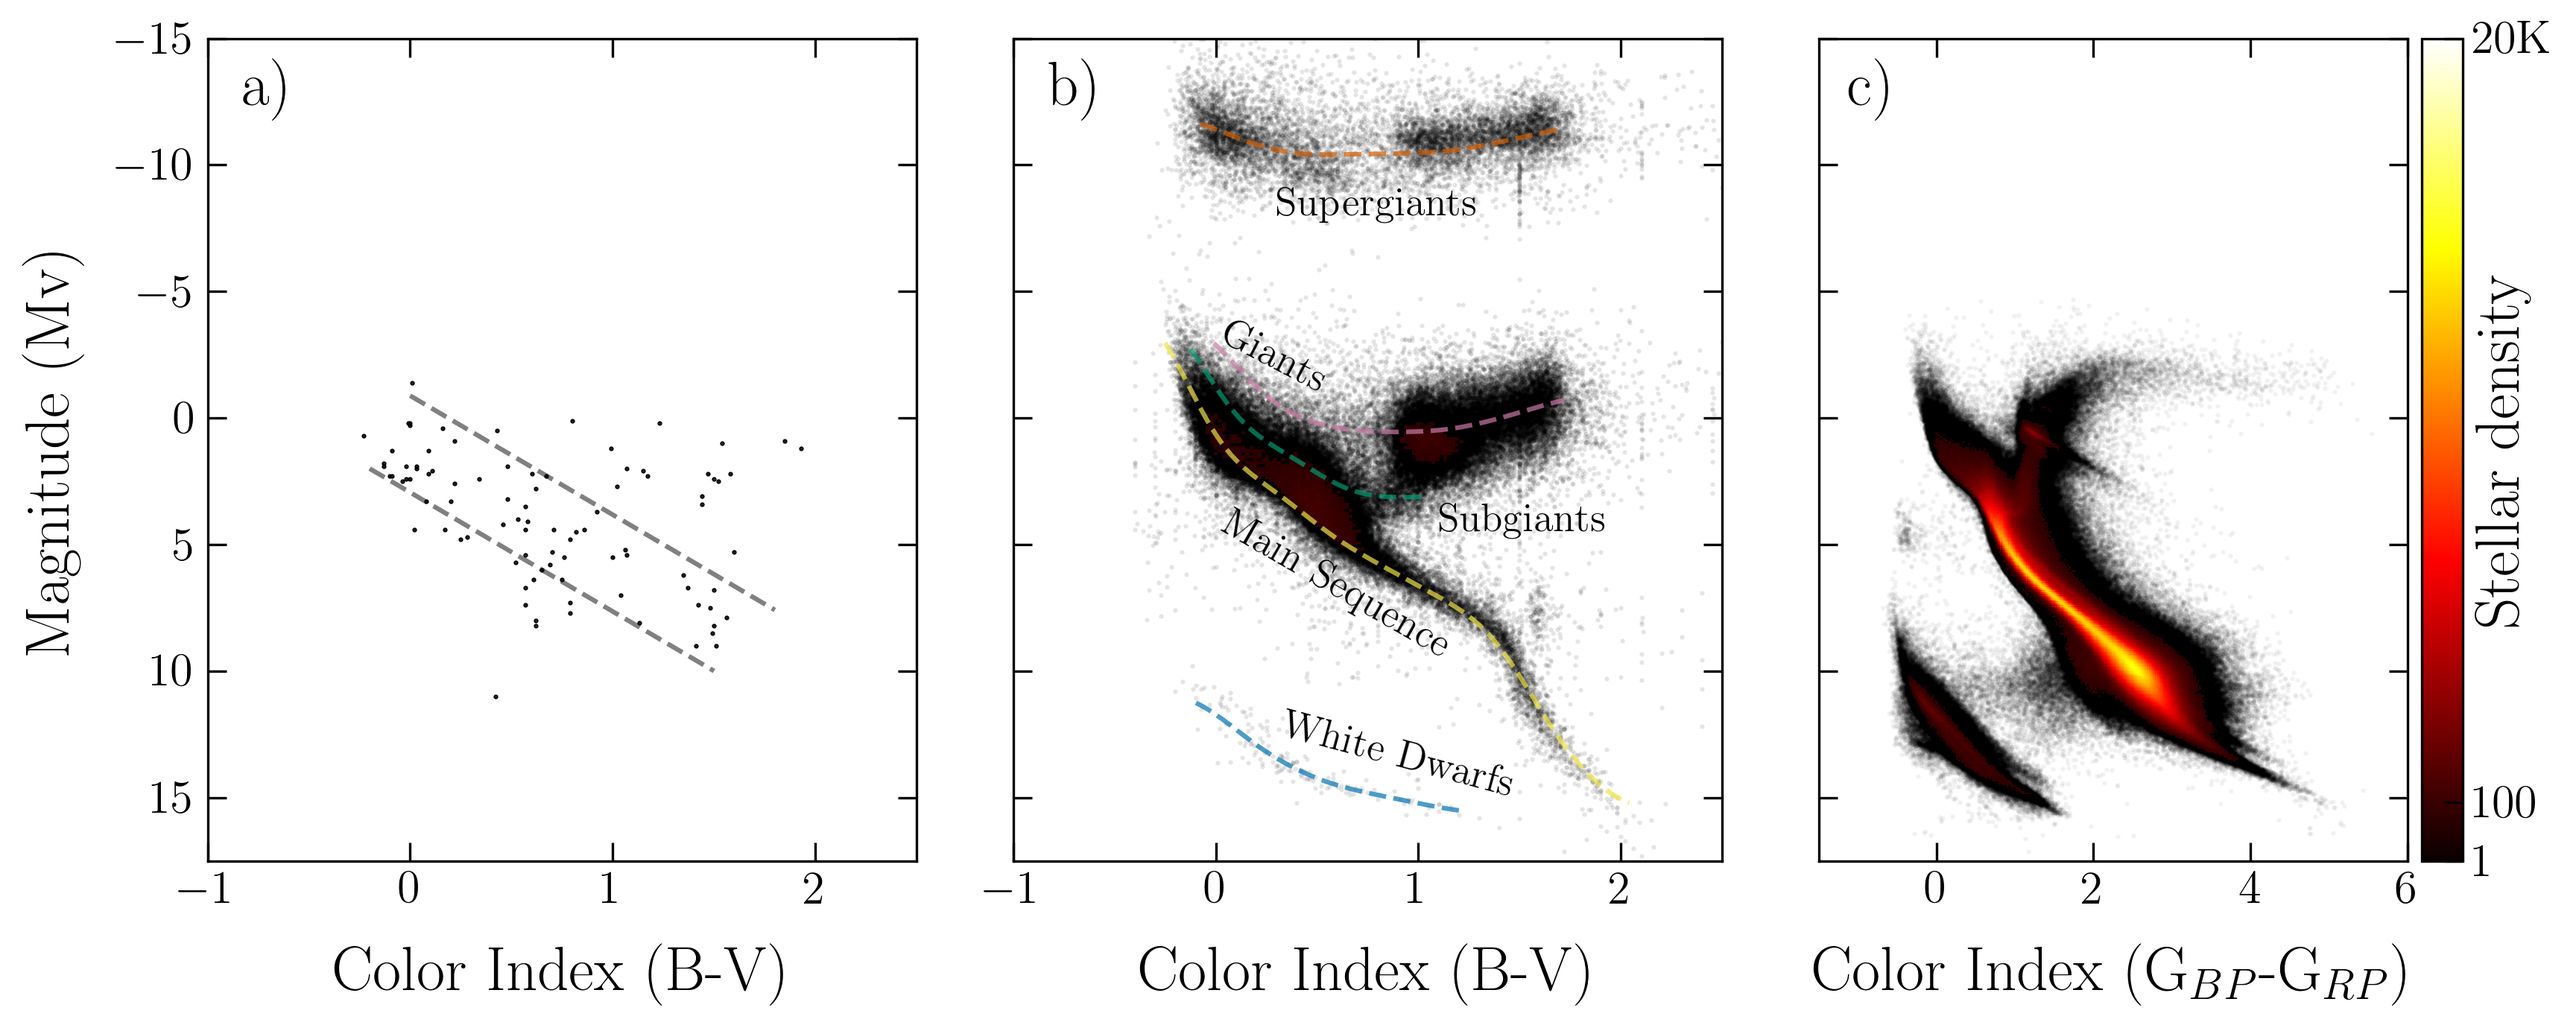
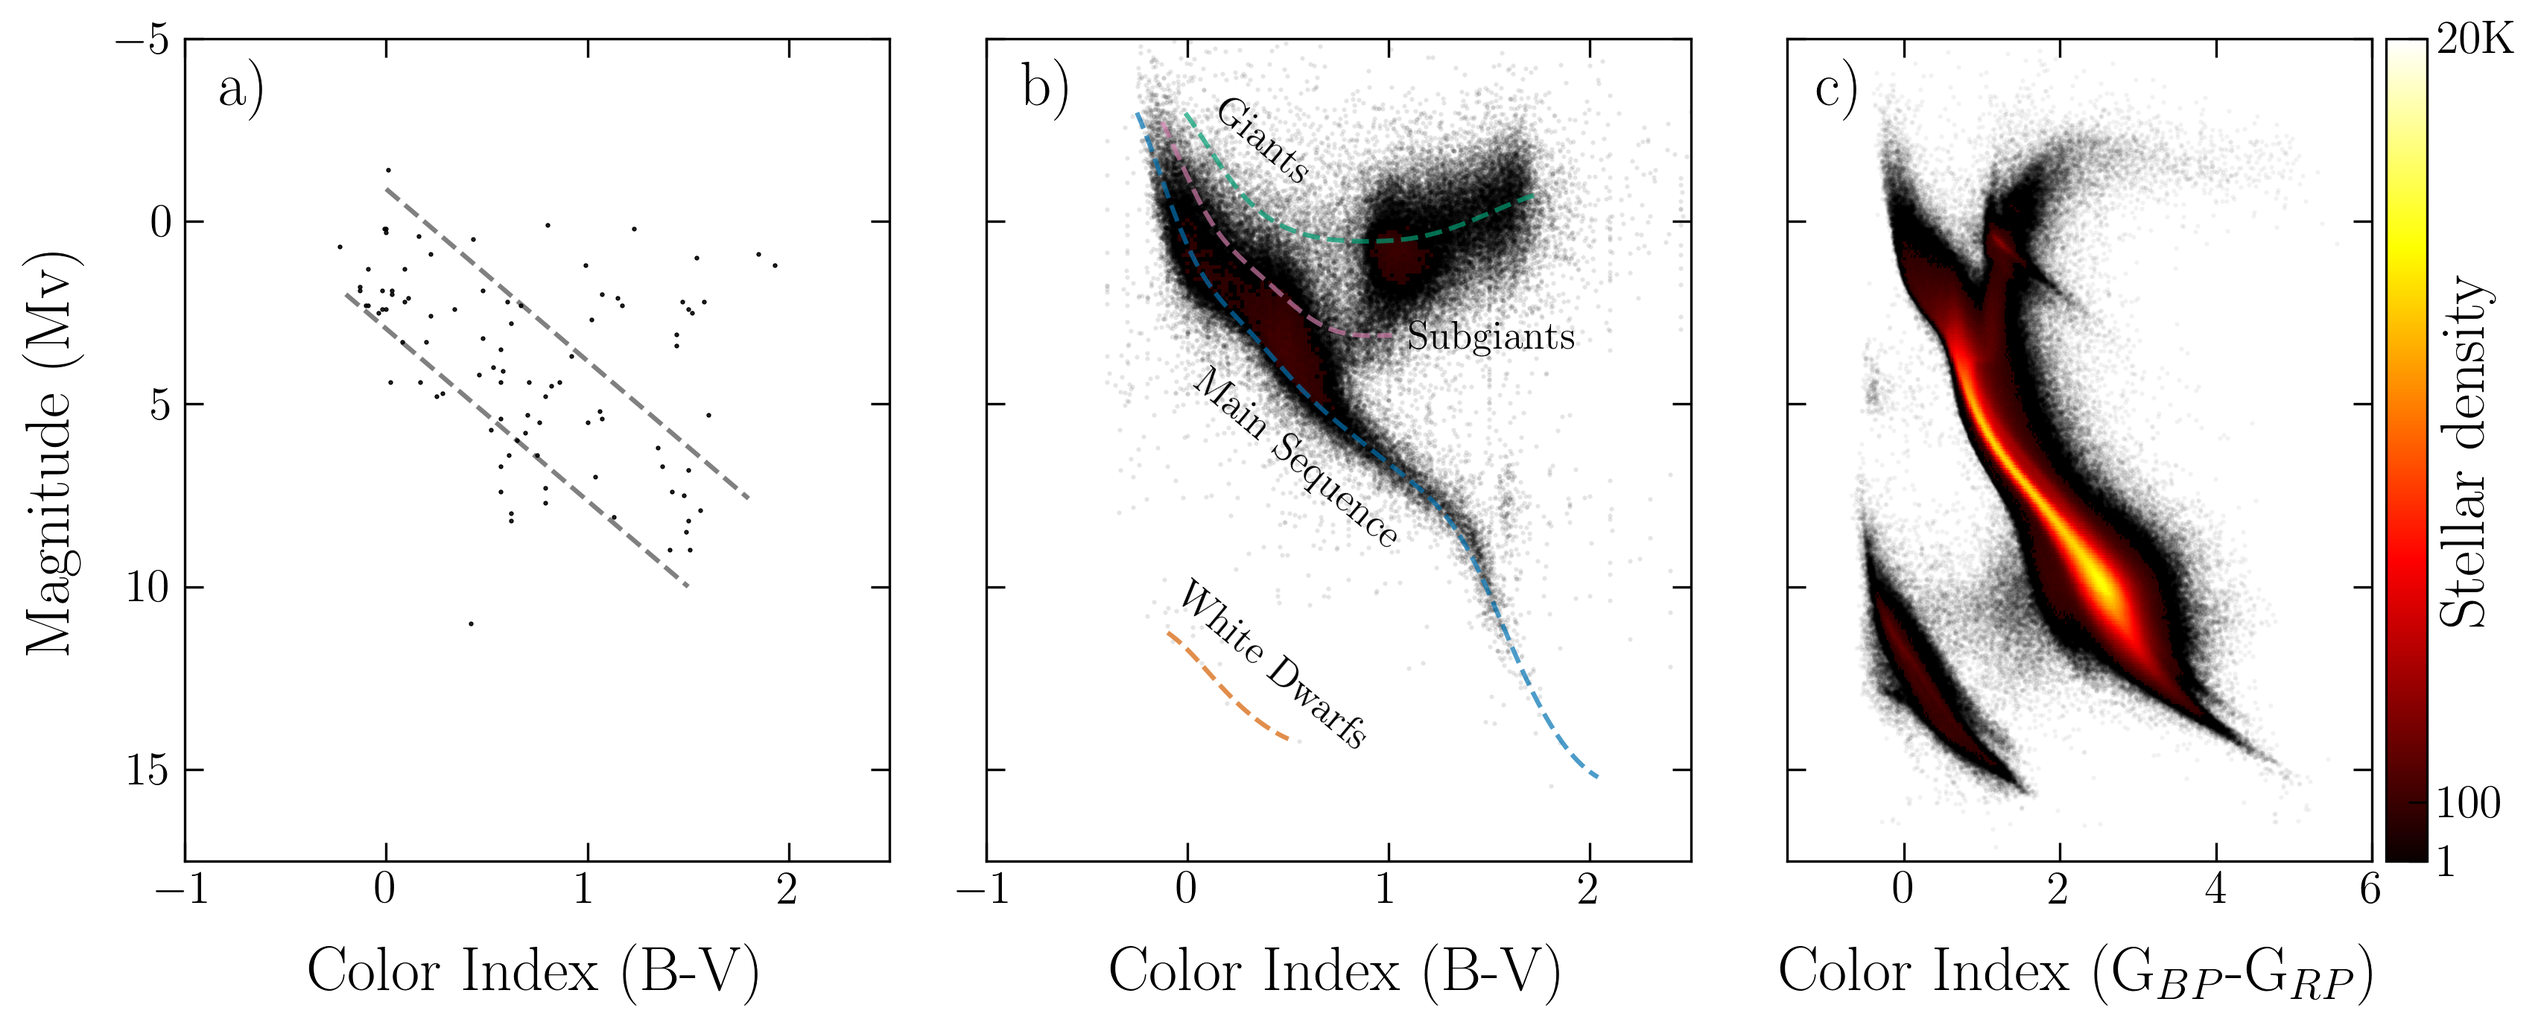
update lims

diff --git a/src/make_HR_plot.py b/src/make_HR_plot.py
@@ -1,4 +1,6 @@
 # -*- coding: utf-8 -*-
+# %load_ext jupyternotify
+
 # +
 import pandas as pd
 import matplotlib.pyplot as plt
@@ -43,6 +45,28 @@ def add_1914_annotations(ax):
     y2 = m1 * x2 + c1[0] * -0.3
     ax.plot(x1,y1, ls='dashed', color='gray', zorder=-100)
     ax.plot(x2,y2, ls='dashed', color='gray', zorder=-100)
+
+    
+def add_hip_annotations(ax):
+    df = pd.read_csv("data/hyg_hr_theory_data.csv")
+    groups = list(set([i.split("_")[0] for i in df.columns.values]))
+    for i, g in enumerate(groups[::-1]):
+        x, y = df[f"{g}_X"], df[f"{g}_Y"]
+        if 'dwarfs' in g:
+            l = 20
+            x, y = x[0:l], y[0:l]
+        f = interp1d(x, y)
+
+        xnew = np.arange(min(x), max(x), 0.01)
+        ynew = gaussian_filter1d(f(xnew), 15, mode="nearest")
+        ax.plot(xnew, ynew, alpha=0.7, ls='dashed', c=f"C{i}")
+    fs = 13
+    ax.annotate("Giants", xy=(0.1, -1), xycoords="data", fontsize=fs,rotation=-40.)
+    ax.annotate("Subgiants", xy=(1.1,3.5), xycoords="data", fontsize=fs, )
+    ax.annotate("Main Sequence", xy=(0, 9.), xycoords="data", fontsize=fs, rotation=-40)
+    ax.annotate("White Dwarfs", xy=(-0.1, 14.5), xycoords="data", fontsize=fs, rotation=-40)
+
+
 
 
 
@@ -92,88 +116,28 @@ def load_1914_data():
     
 
 def load_hyg_data():
-    data = pd.read_csv("https://raw.githubusercontent.com/astronexus/HYG-Database/master/hygdata_v3.csv")
+    try:
+        data = pd.read_csv("data/hyg_data.csv")
+    except Exception:
+        data = pd.read_csv("https://raw.githubusercontent.com/astronexus/HYG-Database/master/hygdata_v3.csv")
     data['B-V'] = data['ci']
     data['temp'] = bv_to_temp(data['B-V'])
     data['mg'] = data['absmag']
     data = data[['mg','temp', 'ci']]
     data = data.dropna()
     return data
-
-
-
     
 def load_hip_data():
-    """
-    To download the catalog you must access the VizieR Search Page 
-    http://vizier.u-strasbg.fr/viz-bin/VizieR-3?-source=I/239/hip_main
-    for the catalog I/239 from the Strasbourg astronomical Data Center (CDS).
-    Select only the fields listed above: HIP, Vmag, Plx, BV, SpType. 
-    In the left pane, under "Preferences" select "unlimited" and "; -Separated Values" 
-    Press the "Submit" button and download the file, which I called I_239_selection.tsv 
-    and occupies only 3.8 MB. Opening it with a text editor is found that it is a text file 
-    with a header of a few lines explanatory of the contents, followed by 118322 entries with 
-    the five selected fields separated by the ; character. At the end of the file there is 
-    also a blank line we should skip when reading the file.
-    
-    
-    """
-    HIP = "data/hip.tsv"
-    df = pd.read_table(HIP, skiprows=44, sep='|', header=None, index_col=0,
-                   names = ['HIP', 'Vmag', 'Plx', 'B-V', 'SpType'],
-                   skipfooter=1, engine='python')
-    
-    df = df.applymap(lambda x: np.nan if isinstance(x, str)
-                           and x.isspace() else x).dropna()
-
-    df['Vmag'] = df['Vmag'].astype(np.float64)
-    df['Plx'] = df['Plx'].astype(np.float64)
-    df['B-V'] = df['B-V'].astype(np.float64)
-    
-    # removing nans in parallaxes and B-V
-    df = df[ df['Plx'].notna()]
-    df = df[df["B-V"].notna()]
-    
-    #Making sure parallaxes are positive and not too close to zero
-    df = df[df.Plx > 0.1] 
-    df["d_kpc"] = 1/df["Plx"]
-    #     df["d_kpc"].describe()
-    
-
-    #creating a copy of the SpTypes without changes to the Spectral Types for later use 
-    df['Og_SpType'] = df['SpType']
-
-    #the first 2 identifiers are the most important information in the Spectral types, so we drop all other letters in the column
-    df['SpType'] = df['SpType'].str[:2]
-
-    #we also remove spectral types that are < 2 characters, we need a type and a number 
-    mask = (df['SpType'].str.len() > 1)
-    df = df.loc[mask]
-
-    #we remove spectral types where the second character is not useable, ex: b:, h', mm
-    mask = df['SpType'].str[1].str.isdigit()
-    df = df.loc[mask]
-
-    #we are only looking at the most common spectral types, O, B A, F, G, K, M, so any other spectral types will be removed 
-    df = df[df['SpType'].map(lambda s: s[0] in 'OBAFGKM')]
-
-    #the x axis of the HR-diagram will be the spectral type, so we quantify this by assigning a number to each spectral type
-    sequence = {'O':'0', 'B':'1', 'A':'2', 'F':'3', 'G':'4', 'K':'5', 'M':'6'}
-    df['SpType'] = df['SpType'].apply(lambda s: sequence[s[0]]+s[1])
-
-    #convert string to float
-    df['SpType'].apply(lambda s: float(s))
-    
-    
-    # Add a new column with the absolute magnitude
-    df['mg'] = mag_to_absmag(df['Vmag'], df['Plx'])
-    df['temp'] = bv_to_temp(df['B-V'])
-   
-    df = df.replace([np.inf, -np.inf], np.nan)
-    df = df.dropna()
-    
-    df['ci'] = df['B-V']
-    return df[['mg','temp', 'ci']]
+    try:
+        data = pd.read_csv("data/hyg_data.csv")
+    except Exception:
+        data = pd.read_csv("https://raw.githubusercontent.com/astronexus/HYG-Database/master/hygdata_v3.csv")
+    data['B-V'] = data['ci']
+    data['temp'] = bv_to_temp(data['B-V'])
+    data['mg'] = data['absmag']
+    data = data[['mg','temp', 'ci', 'hip']]
+    data = data.dropna()
+    return data
 
 
     
@@ -232,20 +196,37 @@ def bv_to_temp(bv):
 
 
 
+DATA = { "1914":load_1914_data(), 'hyg': load_hyg_data(), 'hip':load_hip_data(), 'gaia':load_gaia_data()}
+
 # -
 
-data_1914 = load_1914_data()
-data_gaia = load_gaia_data()
-data_hyg = load_hyg_data()
+def plot_hr(datasets=list(DATA.keys()), fname="hr_diagram.png"):
+    num = len(datasets)
+    data = {k:DATA[k] for k in datasets}
+    fig, axes = plt.subplots(1,num,  figsize=(4*num, 5), sharey=True)
+    
+    for (k, d), ax in zip(data.items(), axes):
+        if k == "1914":
+            make_hr_diagram(ax, d,alpha=1,  l="a)",  diff_xargs=True, show_ylab=True)
+            add_1914_annotations(ax)
+        elif k == "hip":
+            make_hr_diagram(ax, d, l="b)", diff_xargs=True, alpha=0.1)
+            add_hip_annotations(ax)
+        elif k == "hyg":
+            make_hr_diagram(ax, d, l="bi)", diff_xargs=True, alpha=0.1)
+            add_hyg_annotations(ax)
+        elif k == "gaia":
+            make_hr_diagram(ax, d, l="c)", show_colorbar=True)
+    
+    
+    if 'hyg' not in datasets:  
+        for ax in axes:
+            ax.set_ylim(17.5, -5)
+    plt.tight_layout()
+    plt.savefig(fname, dpi=300)
 
-# +
-fig, axes = plt.subplots(1,3,  figsize=(12, 5), sharey=True)
-make_hr_diagram(axes[0], data_1914,alpha=1,  l="a)",  diff_xargs=True, show_ylab=True)
-make_hr_diagram(axes[1], data_hyg, l="b)", diff_xargs=True, alpha=0.1)
-make_hr_diagram(axes[2], data_gaia, l="c)", show_colorbar=True)
+# %%notify
+plot_hr(datasets=['1914','hip', 'gaia'], fname="hr_diagram.png")
 
-add_1914_annotations(axes[0])
-add_hyg_annotations(axes[1])
-
-plt.tight_layout()
-plt.savefig("hr_diagram.png", dpi=300)
+# %%notify
+plot_hr(datasets=['1914','hip', 'hyg', 'gaia'], fname="hr_diagram_all.png")
